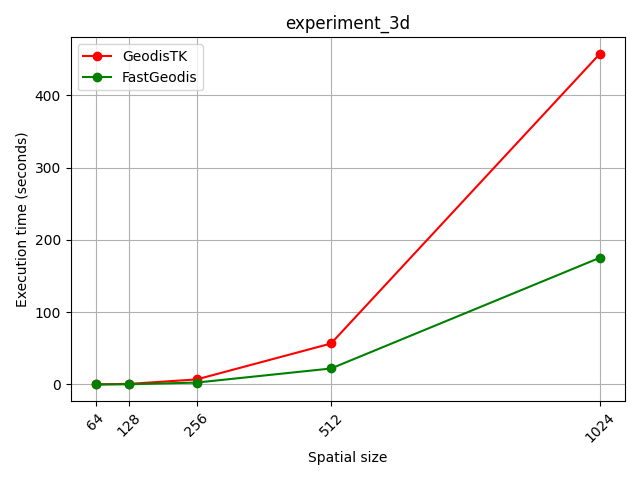
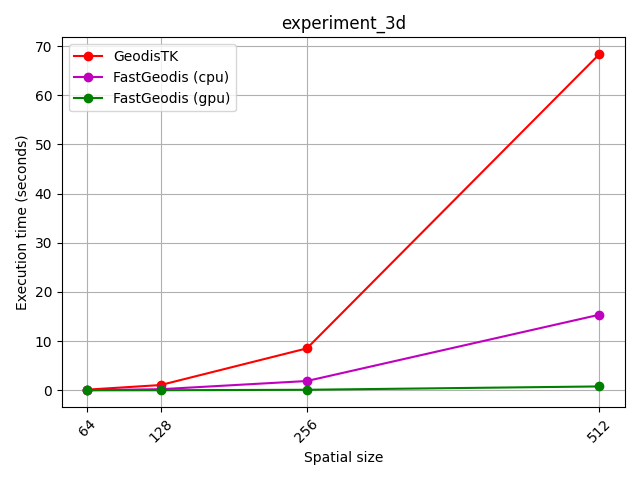
adding new benchmark figures with gpu implementation

diff --git a/scripts/test_benchmark.py b/scripts/test_benchmark.py
@@ -29,8 +29,6 @@ def generalised_geodesic2d_raster_cpu(I, S, v, lamda, iter):
 
 @timing
 def generalised_geodesic2d_raster_gpu(I, S, v, lamda, iter):
-    I = I.to('cuda')
-    S = S.to('cuda')
     return FastGeodis.generalised_geodesic2d(I, S, v, lamda, 1-lamda, iter)
 
 @timing
@@ -43,8 +41,6 @@ def generalised_geodesic3d_raster_cpu(I, S, spacing, v, lamda, iter):
 
 @timing
 def generalised_geodesic3d_raster_gpu(I, S, spacing, v, lamda, iter):
-    I = I.to('cuda')
-    S = S.to('cuda')
     return FastGeodis.generalised_geodesic3d(I, S, spacing, v, lamda, 1-lamda, iter)
     
 func_to_test_2d = [generalised_geodesic_distance_2d, generalised_geodesic2d_raster_cpu, generalised_geodesic2d_raster_gpu]
@@ -59,15 +55,22 @@ def test2d():
     for func in func_to_test_2d:
         time_taken_dict[func.__name__] = []
         for size in sizes_to_test:
-            ab = torch.rand((1, 1, size, size))
+            image = torch.rand((1, 1, size, size))
+            seed = torch.ones((1, 1, size, size))
+            seed[:, :, size//2, size//2] = 0.0
+
+            if 'gpu' in func.__name__:
+                image = image.to('cuda').contiguous()
+                seed = seed.to('cuda').contiguous()
+            
             tic = time.time()
             for i in range(num_runs):
                 if 'cpu' in func.__name__:
-                    func(ab, ab, 10000, 1.0, 2)
+                    func(image, seed, 10000, 1.0, 2)
                 elif 'gpu' in func.__name__ and torch.cuda.is_available():
-                    func(ab, ab, 10000, 1.0, 2)
+                    func(image, seed, 10000, 1.0, 2)
                 else:
-                    func(np.squeeze(ab.numpy()), np.squeeze(ab.numpy()), 10000, 1.0, 2)
+                    func(np.squeeze(image.cpu().numpy()), np.squeeze(seed.cpu().numpy()), 10000, 1.0, 2)
 
             time_taken_dict[func.__name__].append((time.time() - tic)/num_runs)
         print()
@@ -78,21 +81,28 @@ def test3d():
     num_runs = 2
     spacing = [1.0, 1.0, 1.0]
 
-    sizes_to_test = [64*(2**0), 64*(2**1), 64*(2**2), 64*(2**3), 64*(2**4)]#, 64*(2**5), 64*(2**6)]
+    sizes_to_test = [64*(2**0), 64*(2**1), 64*(2**2), 64*(2**3)]#, 64*(2**4)]#, 64*(2**5), 64*(2**6)]
     print(sizes_to_test)
     time_taken_dict = dict()
     for func in func_to_test_3d:
         time_taken_dict[func.__name__] = []
         for size in sizes_to_test:
-            ab = torch.rand((1, 1, size, size, size))
+            image = torch.rand((1, 1, size, size, size))
+            seed = torch.ones((1, 1, size, size, size))
+            seed[:, :, size//2, size//2, size//2] = 0.0
+            
+            if 'gpu' in func.__name__:
+                image = image.to('cuda').contiguous()
+                seed = seed.to('cuda').contiguous()
+
             tic = time.time()
             for i in range(num_runs):
                 if 'cpu' in func.__name__:
-                    func(ab, ab, spacing, 10000, 1.0, 2)
+                    func(image, seed, spacing, 10000, 1.0, 2)
                 elif 'gpu' in func.__name__ and torch.cuda.is_available():
-                    func(ab, ab, spacing, 10000, 1.0, 2)
+                    func(image, seed, spacing, 10000, 1.0, 2)
                 else:
-                    func(np.squeeze(ab.numpy()), np.squeeze(ab.numpy()), spacing, 10000, 1.0, 2)
+                    func(np.squeeze(image.cpu().numpy()), np.squeeze(seed.cpu().numpy()), spacing, 10000, 1.0, 2)
 
             time_taken_dict[func.__name__].append((time.time() - tic)/num_runs)
         print()
